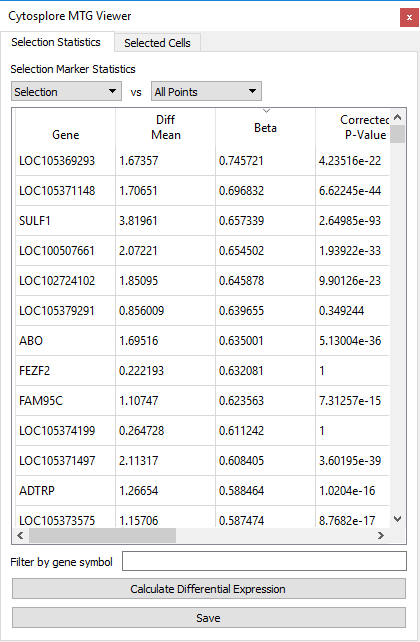
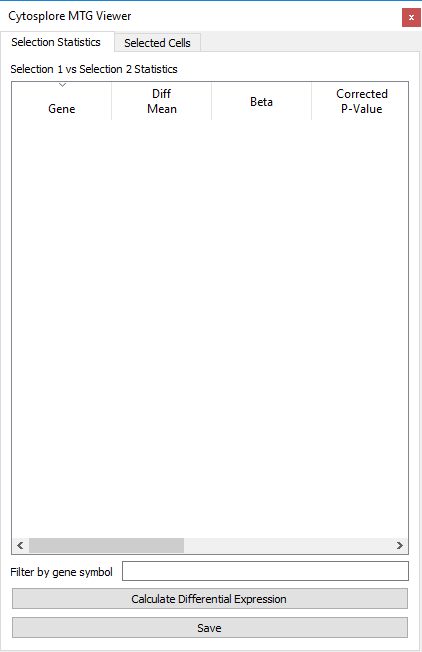
Updated the text regarding the differential expression viewer so it's similar to the UserGuide. I also changed 1 screenshot image and added two others to reflect the different stages of the differential expression viewer.

Changed region(s): [[0.0, 0.0, 0.9905, 0.9657]]

diff --git a/_posts/2018-06-07-differential-expression-viewer.md b/_posts/2018-06-07-differential-expression-viewer.md
@@ -32,11 +32,11 @@ Once the selections are set, clicking the Compute Differential
 Expression button will compute differential expression statistics over
 the full feature set and will fill the table.
 
+![Differential Expression Viewer image][differentialexpressionviewer_uptodate_image]
+
 The default behavior for the differential expression viewer is as
 follows:
 
--   If a selection 1 and a selection 2 exist, they are contrasted
-    against each other.
 -   Differential expression and Beta are only computed if a gene is
     expressed in at least 5 cells in each selection, and otherwise set
     to 0.
@@ -67,5 +67,11 @@ results can be explored as follows:
     right-clicking on the result table, or by pressing the “save”
     button.
 
+![Differential Expression Viewer image][differentialexpressionviewer_outofdate_image]
+	
+If either of the selections is changed, the results in the table will no longer be up-todate with the selections: this is indicated in the differential expression viewer by a darker background color for the statistics table and the button “Out-of-Date – Recalculate” will become visible. Note that the previously calculated differential expression results can still be interactively explored. 
+	
 
 [differentialexpressionviewer_image]: {{ site.baseurl }}/assets/documentation/overview_differentialexpressionviewer.png "Differential Expression Viewer"
+[differentialexpressionviewer_uptodate_image]: {{ site.baseurl }}/assets/documentation/overview_differentialexpressionviewer_uptodate.png "Differential Expression Viewer after computation"
+[differentialexpressionviewer_outofdate_image]: {{ site.baseurl }}/assets/documentation/overview_differentialexpressionviewer_outofdate.png "Differential Expression Viewer after computation"
